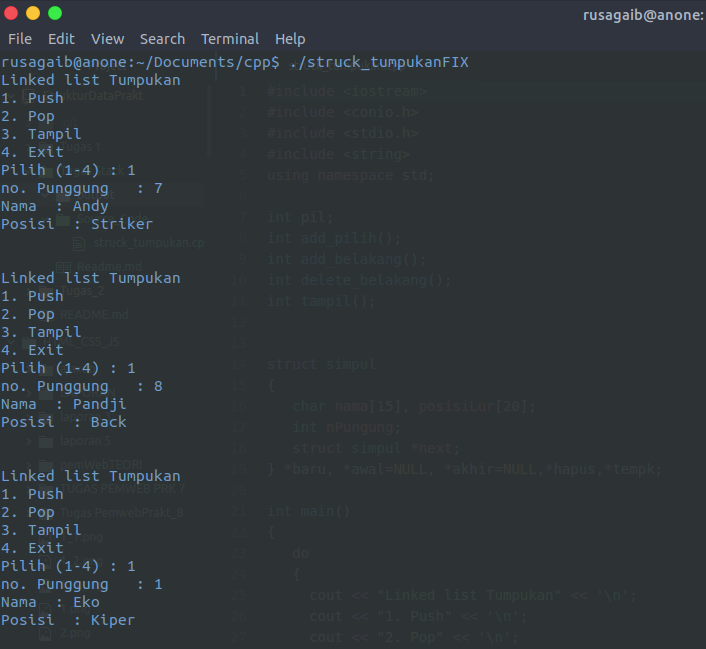
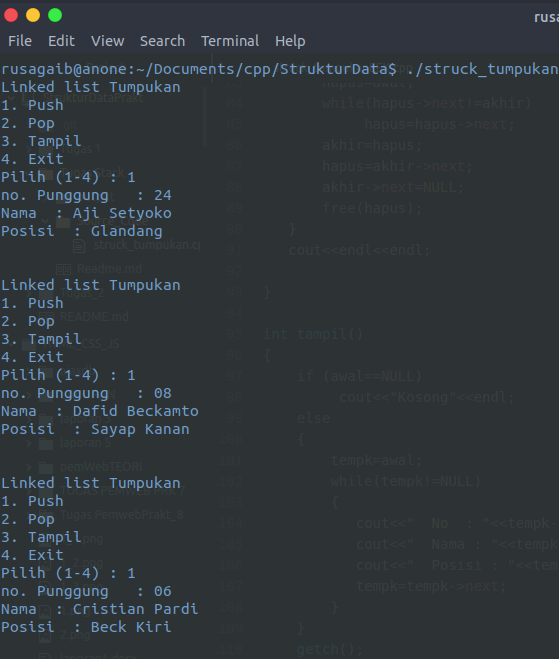
ping!!

diff --git a/Tugas Stack/Source_Code/struck_tumpukan.cpp b/Tugas Stack/Source_Code/struck_tumpukan.cpp
@@ -49,9 +49,10 @@ int add_pilih()
 int add_belakang()
 {
    baru=(simpul*)malloc(sizeof(struct simpul));
+
    cout<<"no. Punggung   : ";cin>>baru->nPungung;
-   cout<<"Nama  : ";cin>>baru->nama;
-   cout<<"Posisi  : ";cin>>baru->posisiLur;
+   cout<<"Nama  : ";cin.ignore();cin.getline(baru->nama, 15);
+   cout<<"Posisi  : ";cin.ignore();cin.getline(baru->posisiLur, 20);
    baru->next=NULL;
    if(awal==NULL)
    {
